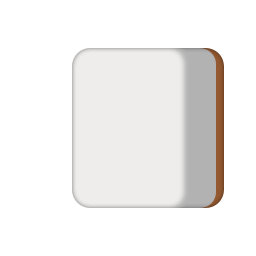
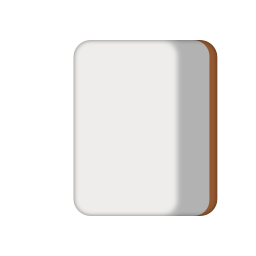
wip

Changed region(s): [[0.2812, 0.1562, 0.875, 0.8438]]

diff --git a/packages/frontend/src/pages/mahjong/room.game.vue b/packages/frontend/src/pages/mahjong/room.game.vue
@@ -236,11 +236,6 @@ let riichiSelect = false;
 function chooseTile(tile: Mahjong.Common.Tile, ev: MouseEvent) {
 	if (!isMyTurn.value) return;
 
-	sound.playUrl('/client-assets/mahjong/dahai.mp3', {
-		volume: 1,
-		playbackRate: 1,
-	});
-
 	iTsumoed.value = false;
 
 	props.connection!.send('dahai', {

diff --git a/packages/frontend/src/pages/mahjong/tile.vue b/packages/frontend/src/pages/mahjong/tile.vue
@@ -29,10 +29,10 @@ const props = defineProps<{
 	margin: -17px;
 }
 .h {
-	margin: -14px -20px -10px -20px;
+	margin: -14px -21px -5px;
 }
 .v {
-	margin: -14px -20px -10px -20px;
+	margin: -14px -18px -11px;
 }
 .bg {
 	position: absolute;
